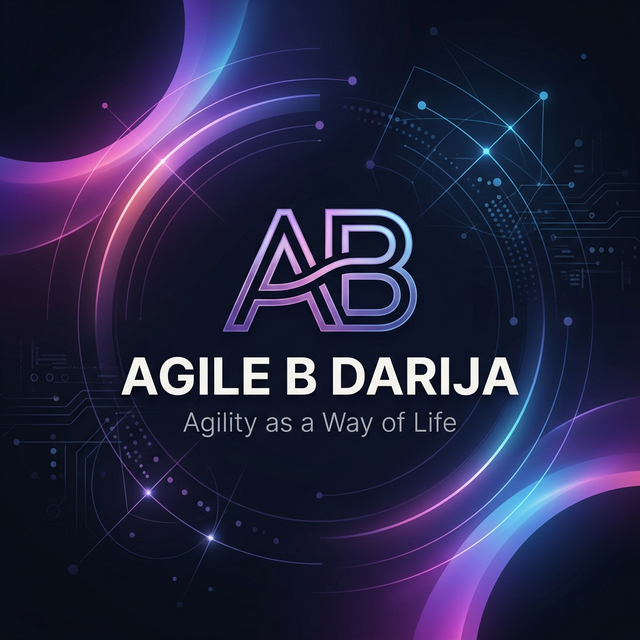
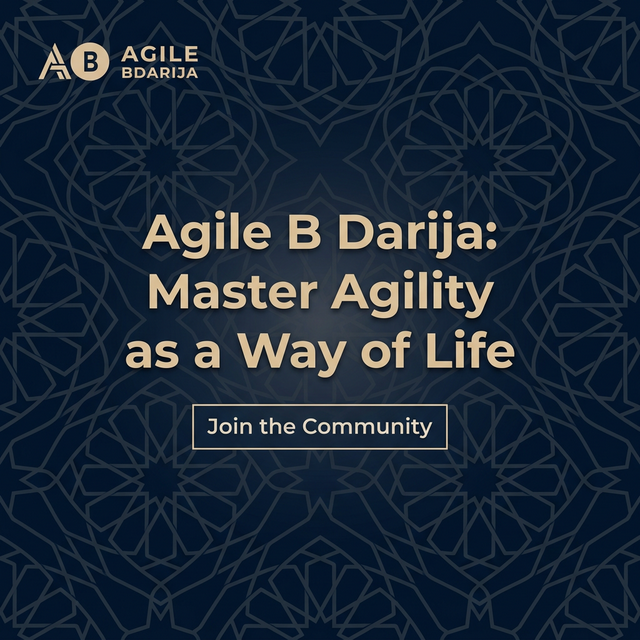
feat: Improve SEO and social sharing by updating site metadata, Open Graph descriptions, and the `og-image.png`.

diff --git a/app/[locale]/layout.tsx b/app/[locale]/layout.tsx
@@ -8,28 +8,29 @@ import { notFound } from 'next/navigation';
 import { routing } from '@/i18n/routing';
 
 export const metadata: Metadata = {
-  title: "Agile B Darija - Agility as a Way of Life",
-  description: "The Moroccan hub for Agile practitioners, students, and leaders to collaborate, learn, and grow.",
+  metadataBase: new URL("https://agilebdarija.com"),
+  title: "Agile B Darija: Master Agility as a Way of Life in Morocco",
+  description: "Agile B Darija is the premier Moroccan hub for Agile practitioners, students, and leaders to collaborate, learn, and grow through workshops and community events.",
   generator: "v0.app",
   icons: {
     icon: "/logo.png",
     apple: "/logo.png",
   },
   openGraph: {
-    title: "Agile B Darija - Agility as a Way of Life",
-    description: "The Moroccan hub for Agile practitioners, students, and leaders to collaborate, learn, and grow.",
+    title: "Agile B Darija: Master Agility as a Way of Life in Morocco",
+    description: "Agile B Darija is the premier Moroccan hub for Agile practitioners, students, and leaders to collaborate, learn, and grow through workshops and community events.",
     images: [{
       url: "/og-image.png",
       width: 1200,
       height: 630,
-      alt: "Agile B Darija Community",
+      alt: "Agile B Darija Community - Moroccan Agile Hub",
     }],
     type: "website",
   },
   twitter: {
     card: "summary_large_image",
-    title: "Agile B Darija - Agility as a Way of Life",
-    description: "The Moroccan hub for Agile practitioners, students, and leaders to collaborate, learn, and grow.",
+    title: "Agile B Darija: Master Agility as a Way of Life in Morocco",
+    description: "Agile B Darija is the premier Moroccan hub for Agile practitioners, students, and leaders to collaborate, learn, and grow through workshops and community events.",
     images: ["/og-image.png"],
   },
 }